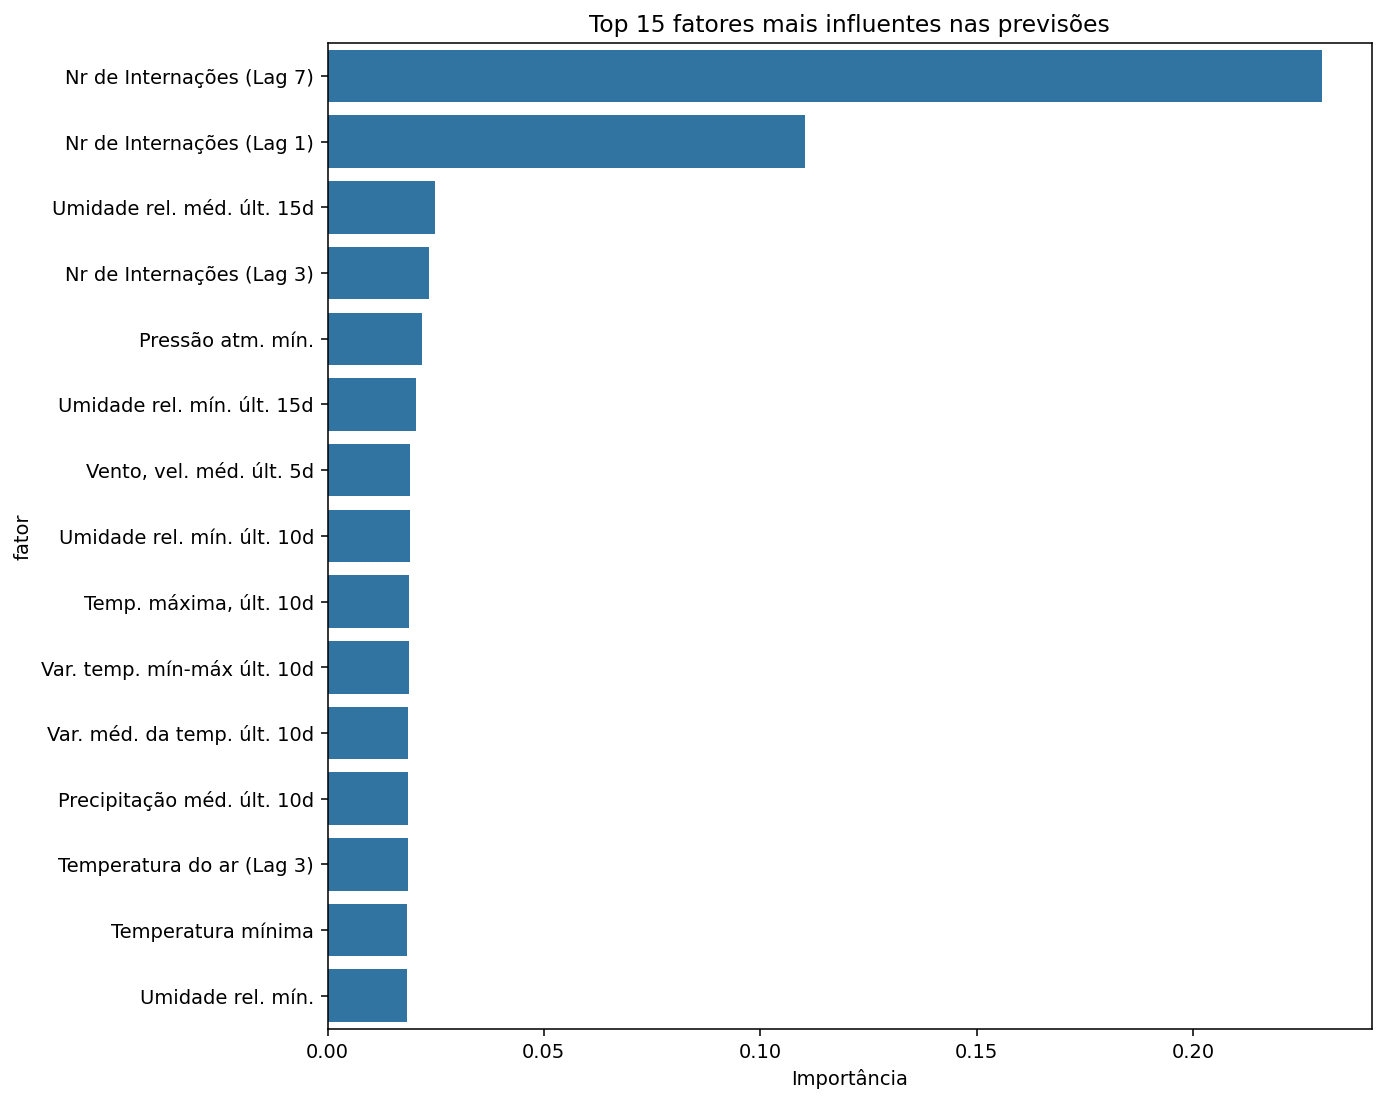
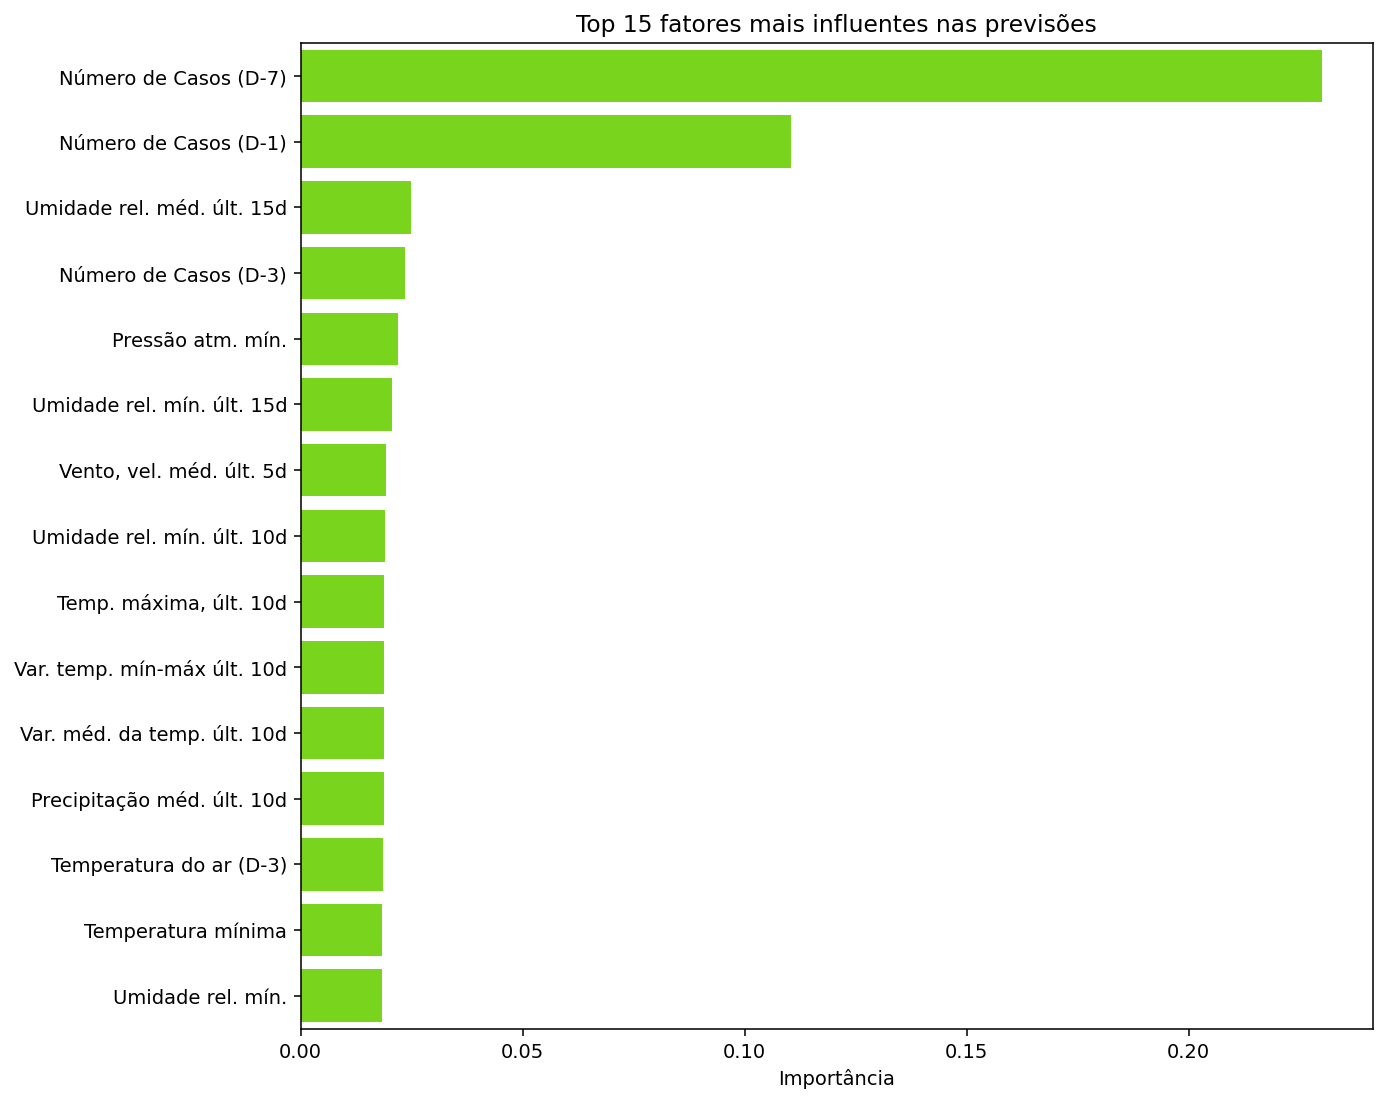
Add more content

diff --git a/src/styles.scss b/src/styles.scss
@@ -10,6 +10,10 @@ main {
   overflow: hidden;
 }
 
+section {
+  margin-bottom: 0.7rem;
+}
+
 .sidebar {
   height: 100%;
   min-height: 100vh;
@@ -53,8 +57,8 @@ main {
   flex: 1;
   padding: 1.2rem 1.6rem;
   overflow-y: auto;
-  background: #222120; // #f8f9fa;
-  color: #d8d9da;
+  background: #f8f9fa; // #222120;
+  color: #222120; // #d8d9da;
 }
 
 .page-title {
@@ -63,5 +67,58 @@ main {
 
 .graph {
   max-width: 100%;
+  min-width: 10%;
   border-radius: 7px;
+  // box-shadow: 0 0 2px 2px #fff;
+}
+
+.img-container {
+  max-width: 100%;
+  display: flex;
+  flex-direction: row;
+  gap: 0.5rem;
+
+  &>* {
+    flex-shrink: 1;
+  }
+}
+
+.nowrap {
+  flex-wrap: nowrap;
+}
+
+.width-50 {
+  max-width: 50%;
+}
+
+.mb-3 {
+  margin-bottom: 0.3rem;
+}
+
+.mb-4 {
+  margin-bottom: 0.4rem;
+}
+
+.mb-5 {
+  margin-bottom: 0.5rem;
+}
+
+.spacer-10 {
+  width: 100%;
+  height: 1rem;
+}
+
+.spacer-12 {
+  width: 100%;
+  height: 1.2rem;
+}
+
+.spacer-15 {
+  width: 100%;
+  height: 1.5rem;
+}
+
+.spacer-20 {
+  width: 100%;
+  height: 2rem;
 }

diff --git a/src/app/pages/graphs/graphs.component.html b/src/app/pages/graphs/graphs.component.html
@@ -1,5 +1,28 @@
 <h3 class="page-title">Gráficos Gerados para a Visualização de Dados</h3>
 
-<img class="graph" src="heatmap.png" alt="heatmap">
-<p>Este heatmap demonstra a correlação entre diversos fatores climáticos/demográficos, e dados sobre internações causadas por doenças respiratórias.
-    Quanto mais perto de 1, mais os dois fatores estão diretamente relacionados, e quanto mais perto de -1, mais eles estão inversamente relacionados.</p>
+<section>
+    <h4 class="section-title mb-3">Heatmap - Correlação Entre os Dados</h4>
+    <img class="graph" src="heatmap.png" alt="heatmap">
+    <p>Este heatmap demonstra a correlação entre diversos fatores climáticos/demográficos, e dados sobre internações
+        causadas por doenças respiratórias.
+        Quanto mais perto de 1, mais os dois fatores estão diretamente relacionados, e quanto mais perto de -1, mais
+        eles estão inversamente relacionados.</p>
+</section>
+<div class="spacer-15"></div>
+<section>
+    <h4 class="section-title mb-3">Fatores Mais Influentes vs Número de Casos</h4>
+    <div class="img-container mb-5">
+        <img class="graph" src="umd-15d-cases.png" alt="">
+        <img class="graph" src="min-press-cases.png" alt="">
+        <img class="graph" src="min-umd-15d-cases.png" alt="">
+    </div>
+    <!-- <div class="img-container mb-5">
+    </div> -->
+    <div class="img-container">
+        <img class="graph" src="wind-5d-cases.png" alt="">
+        <img class="graph" src="max-temp-10d-cases.png" alt="">
+        <img class="graph" src="var-temp-ext-10d-cases.png" alt="">
+    </div>
+    <p>Aqui estão representados os fatores (dados) mais importantes, que mais influenciaram na previsão do modelo
+        XGBoost.</p>
+</section>

diff --git a/src/app/pages/xgboost/xgboost.component.html b/src/app/pages/xgboost/xgboost.component.html
@@ -1,0 +1,25 @@
+<h3 class="page-title">Análise Preditiva de Dados Climáticos X Doenças Respiratórias com XGBoost</h3>
+
+<section>
+    <h4 class="section-title mb-3">Previsão de Ocorrências Diárias de Doenças Respiratórias</h4>
+    <img class="graph" src="xgboost-act-vs-pred.png" alt="Gráfico Previsão XGBoost">
+    <p>Este gráfico apresenta a comparação entre os Casos Reais diários de doenças respiratórias (linha azul) e os Casos
+        Previstos utilizando o modelo preditivo XGBoost (linha laranja). Observa-se que, mesmo levando em conta somente
+        fatores climáticos e o número de casos em dias passados, o modelo XGBoost consegue capturar com precisão a
+        tendência geral e a sazonalidade dos dados, suavizando somente os valores extremos, indicando uma forte relação
+        entre clima e doenças respiratórias.
+    </p>
+</section>
+<div class="spacer-15"></div>
+<section>
+    <h4 class="section-title mb-3">Fatores que Mais Influenciam no Número de Casos Diários</h4>
+    <div class="img-container nowrap">
+        <img class="graph" src="xgboost-top-feat-1-8.png" alt="Fatores Mais Importantes XGBoost">
+        <img class="graph" src="xgboost-top-feat-9-16.png" alt="Fatores Mais Importantes XGBoost">
+    </div>
+    <p>Aqui estão representados os fatores (dados) mais importantes, que mais influenciaram na previsão do modelo
+        XGBoost. Observa-se que o número de casos de dias anteriores é um fator extremamente influente, seguido pela
+        umidade relativa do ar nos útimos dias, pressão atmosférica, velocidade do vento, e dados de temperatura.</p>
+</section>
+
+<!-- <div class="colortest"></div> -->

diff --git a/src/app/pages/about/about.component.scss b/src/app/pages/about/about.component.scss
@@ -1,3 +1,0 @@
-section {
-    margin-bottom: 0.7rem;
-}